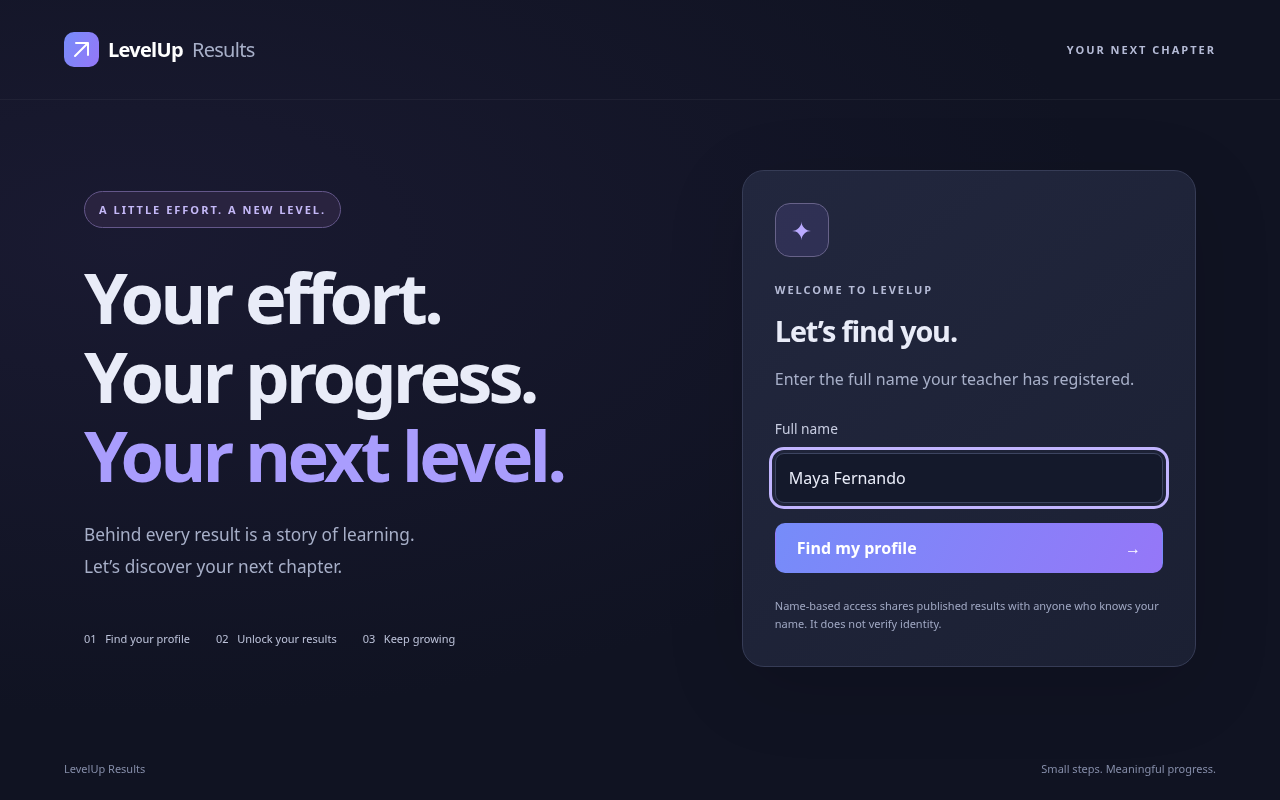
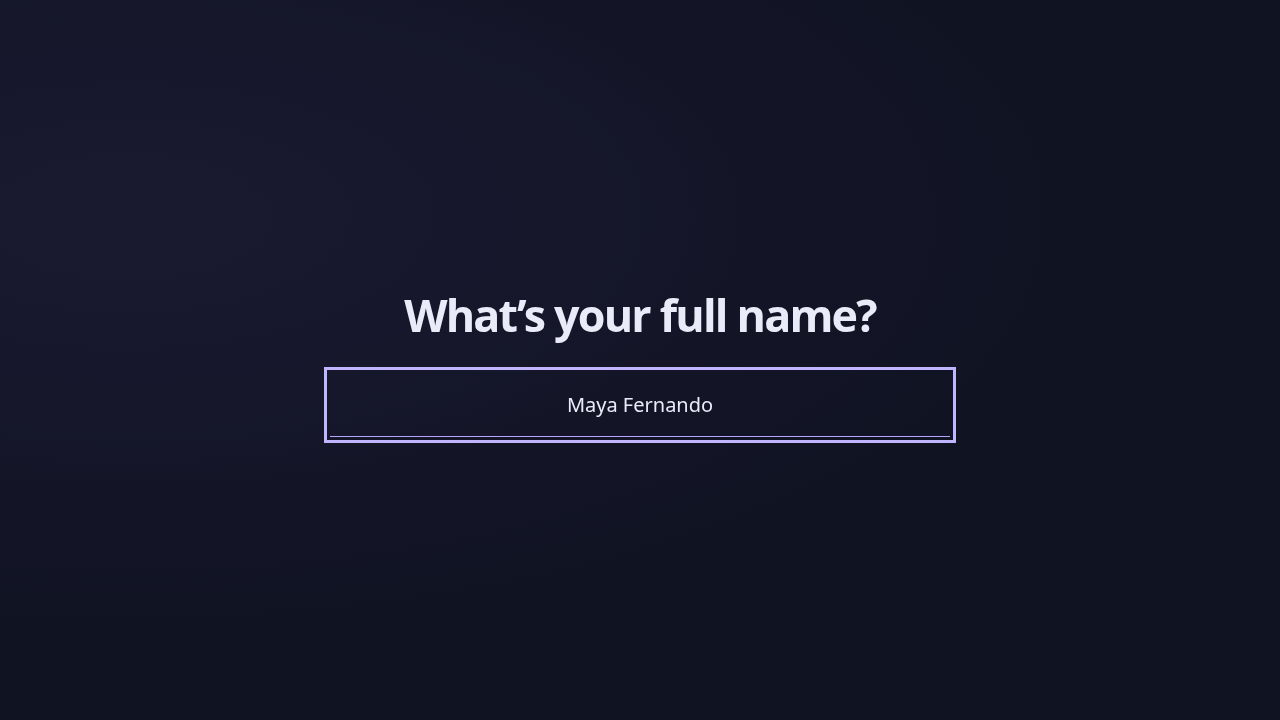
feat: simplify student landing to a prompt and name textbox

diff --git a/public/app.js b/public/app.js
@@ -44,31 +44,53 @@ function shell(content, admin = false) {
   document.querySelector("main")?.focus({ preventScroll: true });
 }
 function home() {
-  shell(
-    `<main class="welcome"><section class="welcome-copy"><div class="eyebrow pill">A LITTLE EFFORT. A NEW LEVEL.</div><h1>Your effort.<br>Your progress.<br><span>Your next level.</span></h1><p class="lead">Behind every result is a story of learning.<br>Let’s discover your next chapter.</p><div class="journey-preview"><span>01 &nbsp; Find your profile</span><span>02 &nbsp; Unlock your results</span><span>03 &nbsp; Keep growing</span></div></section><section class="panel identity"><div class="mini-icon">✦</div><p class="eyebrow">WELCOME TO LEVELUP</p><h2>Let’s find you.</h2><p class="muted">Enter the full name your teacher has registered.</p><form id="find" class="stack"><label for="student-name">Full name</label><input id="student-name" name="name" placeholder="Your full name" maxlength="100" minlength="2" required autocomplete="name"><button>Find my profile <span>→</span></button></form><div id="suggest" class="stack" aria-live="polite"></div><p class="privacy">${sessionInfo.accessMode === "code" ? "Your teacher’s access code is required to view results." : "Name-based access shares published results with anyone who knows your name. It does not verify identity."}</p></section></main>`,
-  );
-  document.querySelector("#find").onsubmit = async (e) => {
+  finishSpin = null;
+  app.innerHTML = `<main class="name-entry" aria-labelledby="name-prompt"><div class="name-entry-content"><label id="name-prompt" class="name-prompt" for="student-name">What’s your full name?</label><input id="student-name" name="name" aria-label="Full name" placeholder="Type your full name and press Enter" maxlength="100" minlength="2" required autocomplete="name" enterkeyhint="go"><div id="suggest" class="stack" aria-live="polite" aria-busy="false"></div></div></main>`;
+  const input = document.querySelector("#student-name");
+  const target = document.querySelector("#suggest");
+  let searching = false;
+  input.oninput = () => {
+    input.setCustomValidity("");
+    target.replaceChildren();
+  };
+  input.onkeydown = async (e) => {
+    if (e.key !== "Enter" || e.isComposing || searching) return;
     e.preventDefault();
-    const target = document.querySelector("#suggest");
+    const name = input.value.trim().replace(/\s+/g, " ");
+    input.setCustomValidity(
+      name.length < 2 ? "Please enter your full name." : "",
+    );
+    if (!input.reportValidity()) return;
+    searching = true;
+    input.readOnly = true;
+    target.setAttribute("aria-busy", "true");
     target.textContent = "Finding your profile…";
     try {
-      const result = await api("/lookup", {
-        name: e.target.elements.name.value,
-      });
+      const result = await api("/lookup", { name });
       target.innerHTML = `<p>${result.exact ? "Is this your profile?" : "No exact match. Select your profile below."}</p>`;
       if (!result.students.length)
         target.textContent =
           "No matching profiles. Please contact your teacher.";
       for (const s of result.students) {
-        const b = btn(
-          `${s.name} · ${s.label}`,
-          () => choose(s),
-          "profile-card",
+        target.append(
+          btn(`${s.name} · ${s.label}`, () => choose(s), "profile-card"),
         );
-        target.append(b);
       }
-    } catch (e) {
-      target.textContent = e.message;
+      if (result.students.length) {
+        const privacy = document.createElement("p");
+        privacy.className = "privacy";
+        privacy.textContent =
+          sessionInfo.accessMode === "code"
+            ? "Your teacher’s access code is required to view results."
+            : "Name-based access shares published results with anyone who knows your name. It does not verify identity.";
+        target.append(privacy);
+      }
+    } catch (error) {
+      target.textContent = error.message;
+    } finally {
+      searching = false;
+      input.readOnly = false;
+      target.setAttribute("aria-busy", "false");
     }
   };
 }

diff --git a/public/style.css b/public/style.css
@@ -138,39 +138,10 @@ main:focus {
   letter-spacing: 2px;
   color: #b5bbd6;
 }
-.pill {
-  display: inline-flex;
-  border: 1px solid #64578a;
-  border-radius: 30px;
-  padding: 10px 14px;
-  color: #c5b9f8;
-  background: #29233f;
-}
-.welcome {
-  max-width: 1240px;
-  margin: auto;
-  min-height: calc(100vh - 175px);
-  padding: 70px 5%;
-  display: grid;
-  grid-template-columns: 1.25fr 1fr;
-  gap: 90px;
-  align-items: center;
-}
 .lead {
   font-size: 1.08rem;
   color: var(--muted);
   line-height: 1.85;
-}
-.welcome-copy h1 {
-  margin-top: 30px;
-}
-.journey-preview {
-  display: flex;
-  gap: 26px;
-  margin-top: 48px;
-  font-size: 11px;
-  color: #bdc3da;
-  flex-wrap: wrap;
 }
 .panel {
   padding: 32px;
@@ -178,24 +149,6 @@ main:focus {
   border: 1px solid #363c56;
   border-radius: 22px;
   box-shadow: 0 20px 80px #0002;
-}
-.identity {
-  position: relative;
-}
-.mini-icon {
-  font-size: 25px;
-  width: 54px;
-  height: 54px;
-  border: 1px solid #676289;
-  background: #8b7bf322;
-  color: #baaaff;
-  border-radius: 15px;
-  display: grid;
-  place-items: center;
-  margin-bottom: 24px;
-}
-.identity .eyebrow {
-  margin: 0;
 }
 .muted {
   color: var(--muted);
@@ -206,13 +159,6 @@ main:focus {
 }
 .stack button:not(.secondary) {
   margin-top: 5px;
-}
-.identity form {
-  margin-top: 26px;
-}
-.identity button {
-  display: flex;
-  justify-content: space-between;
 }
 .privacy {
   font-size: 11px;
@@ -663,26 +609,6 @@ dialog h2 {
   }
 }
 @media (max-width: 850px) {
-  .welcome {
-    gap: 40px;
-    padding-top: 45px;
-    grid-template-columns: 1fr;
-  }
-  .welcome-copy {
-    text-align: center;
-  }
-  .welcome-copy h1 {
-    font-size: 3.7rem;
-  }
-  .journey-preview {
-    justify-content: center;
-    margin-top: 25px;
-  }
-  .identity {
-    max-width: 550px;
-    width: 100%;
-    margin: auto;
-  }
   .stats {
     grid-template-columns: repeat(2, 1fr);
   }
@@ -715,17 +641,6 @@ dialog h2 {
   }
 }
 @media (max-width: 450px) {
-  .welcome-copy h1 {
-    font-size: 3rem;
-  }
-  .journey-preview {
-    gap: 14px;
-    font-size: 10px;
-  }
-  .welcome {
-    padding: 35px 6%;
-    gap: 32px;
-  }
   .toolbar button {
     padding: 10px 13px;
   }
@@ -778,4 +693,52 @@ dialog h2 {
 .final .score {
   text-shadow: none;
   filter: drop-shadow(0 0 35px #e5c46c55);
+}
+
+.name-entry {
+  min-height: 100vh;
+  min-height: 100svh;
+  display: grid;
+  place-items: center;
+  padding: 48px 24px;
+}
+.name-entry-content {
+  width: min(100%, 620px);
+  display: grid;
+  gap: 28px;
+  text-align: center;
+}
+.name-prompt {
+  display: block;
+  font-family: Manrope, system-ui, sans-serif;
+  font-size: clamp(1.7rem, 5vw, 2.8rem);
+  font-weight: 600;
+  letter-spacing: -0.04em;
+  color: #e9ecf8;
+  text-align: center;
+}
+.name-entry input {
+  background: transparent;
+  border: 0;
+  border-bottom: 1px solid #6e7392;
+  border-radius: 0;
+  padding: 18px 8px;
+  text-align: center;
+  font-size: clamp(1rem, 3.5vw, 1.25rem);
+}
+.name-entry input::placeholder {
+  color: #a7afc8;
+  opacity: 1;
+}
+.name-entry input:focus {
+  border-bottom-color: #b5a5ff;
+}
+.name-entry #suggest:empty {
+  display: none;
+}
+.name-entry #suggest p {
+  margin: 0;
+}
+.name-entry #suggest .privacy {
+  margin-top: 8px;
 }

diff --git a/tests/browser/application.spec.js b/tests/browser/application.spec.js
@@ -2,7 +2,7 @@ import { test, expect } from "@playwright/test";
 async function identify(page, name) {
   await page.goto("/");
   await page.getByLabel("Full name", { exact: true }).fill(name);
-  await page.getByRole("button", { name: "Find my profile" }).click();
+  await page.getByLabel("Full name", { exact: true }).press("Enter");
   await page.getByRole("button", { name: new RegExp(name + " ·") }).click();
   await page.getByRole("button", { name: "Discover my results" }).click();
 }
@@ -14,6 +14,8 @@ test("no suggestions before submission, multi-paper reveal and final celebration
     if (r.url().endsWith("/api/lookup")) lookups++;
   });
   await page.goto("/");
+  await expect(page.locator("form, .panel, header, footer")).toHaveCount(0);
+  await expect(page.getByLabel("Full name", { exact: true })).toBeVisible();
   await page.getByLabel("Full name", { exact: true }).fill("Maya Fernando");
   await page.waitForTimeout(150);
   expect(lookups).toBe(0);
@@ -21,7 +23,7 @@ test("no suggestions before submission, multi-paper reveal and final celebration
     path: "docs/screenshots/welcome.png",
     fullPage: true,
   });
-  await page.getByRole("button", { name: "Find my profile" }).click();
+  await page.getByLabel("Full name", { exact: true }).press("Enter");
   await page.getByRole("button", { name: /Maya Fernando ·/ }).click();
   await page.getByRole("button", { name: "Discover my results" }).click();
   await expect(

diff --git a/docs/testing.md b/docs/testing.md
@@ -11,7 +11,7 @@ Revalidated for the MongoDB restoration with Node 24.22.1, an isolated MongoDB p
 
 API coverage: unauthorized access, synchronizer CSRF, wrong/correct login, token rotation, secure session attributes, classes and student creation, duplicate normalized names with distinct labels, post-submission similarity suggestions, draft creation and column ordering, complete-batch validation, formula rejection, decimal marks, blank/zero/absence, audit entries, publish/unpublish, per-student results, paper reorder, optional student codes, deactivation, class isolation, maximum/date validation, database validators, Mongo session persistence, logout, lookup rate limiting, and preservation of original MVP IDs/published results during migration.
 
-Browser coverage: no lookup requests while typing; profile confirmation; remembered profile; full ordered two-paper journey; spinner settling exactly on actual marks; percentage normalization; final achievement/confetti; summary; single-paper zero result; replay; reduced motion; keyboard profile selection; 390px mobile student layout; teacher sign-in; Tab navigation; multi-cell TSV paste; undo/redo; range fill; invalid edit restoration; student filtering; student and paper creation; mobile admin layout; Tab leaving the final spreadsheet cell.
+Browser coverage: prompt-and-textbox landing without a card/form/header/footer; Enter-key lookup with no requests while typing; profile confirmation; remembered profile; full ordered two-paper journey; spinner settling exactly on actual marks; percentage normalization; final achievement/confetti; summary; single-paper zero result; replay; reduced motion; keyboard profile selection; 390px mobile student layout; teacher sign-in; Tab navigation; multi-cell TSV paste; undo/redo; range fill; invalid edit restoration; student filtering; student and paper creation; mobile admin layout; Tab leaving the final spreadsheet cell.
 
 Visual review: desktop welcome, teacher spreadsheet, final result and mobile welcome were captured in `docs/screenshots`. Unsupported arrow glyphs were replaced with SVG; clipping of score glow and grid keyboard exit were corrected. A migration test exposed asynchronous session index initialization at shutdown; startup now waits for store readiness. Browser tests exposed that re-entering a restored value does not emit a native change event; recovery verification uses a changed valid value.
 

diff --git a/README.md b/README.md
@@ -60,7 +60,7 @@ Collections: `students`, `classes`, `papers`, `marks`, `administrators`, `auditL
 
 ## Student experience and privacy
 
-Lookup runs only after form submission. Names match after case/whitespace normalization; otherwise up to five similar names are offered. Confirm the profile, then its stable ID is remembered in `localStorage`. There is no ordinary account-switching control. Clearing browser storage can reset this convenience; it is **not authentication or a permanent identity lock**. On a shared device, clear site data between users.
+The landing page shows only a name prompt and textbox, without a card or form. Enter your full name and press Enter (or Go on a mobile keyboard) to look up your profile. Lookup never runs while typing. Names match after case/whitespace normalization; otherwise up to five similar names are offered. Confirm the profile, then its stable ID is remembered in `localStorage`. There is no ordinary account-switching control. Clearing browser storage can reset this convenience; it is **not authentication or a permanent identity lock**. On a shared device, clear site data between users.
 
 In default `STUDENT_ACCESS_MODE=name`, anyone who knows or guesses a student's name **can see that student's published marks**. Rate limiting, limited profile fields, internal IDs, class filtering and explicit publication reduce disclosure; they do not make name lookup private. Only use this mode with informed consent for results approved for sharing. Similar-name suggestions reveal limited names/profile labels after submission. Never put sensitive identifiers in profile labels.
 
